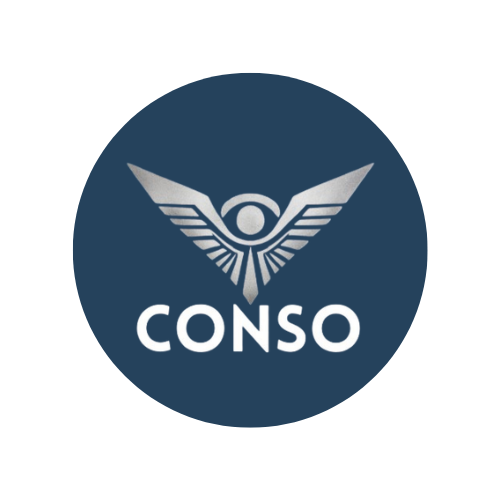
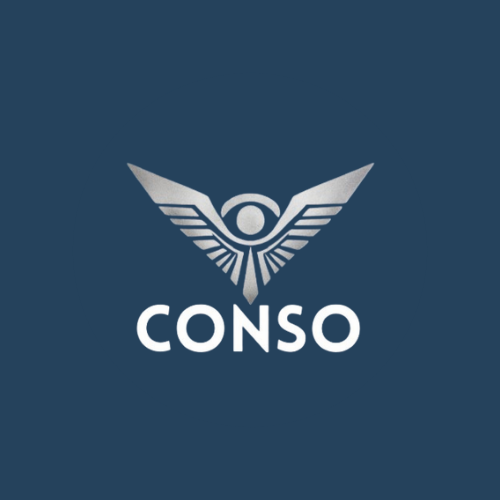
fixed image and remove autoscroll

diff --git a/src/components/Work.jsx b/src/components/Work.jsx
@@ -13,8 +13,6 @@ const reels = [{
 {
     src: 'https://www.youtube.com/embed/8jzZI49KfKo',
 },{
-    src: 'https://www.youtube.com/embed/vPvv9GMEpJI',
-},{
     src: 'https://www.youtube.com/embed/Z6eYzn5ADg4',
 },{
     src: 'https://www.youtube.com/embed/XaL4uijU3q4',
@@ -39,16 +37,6 @@ const Work = () => {
     window.addEventListener('resize', handleResize);
     return () => window.removeEventListener('resize', handleResize);
   }, []);
-
-  useEffect(() => {
-    const timer = setInterval(() => {
-      setCurrentIndex((prevIndex) => {
-        const nextIndex = prevIndex + 1;
-        return nextIndex >= Math.ceil(reels.length / cardsPerView) ? 0 : nextIndex;
-      });
-    }, 10000);
-    return () => clearInterval(timer);
-  }, [cardsPerView]);
 
   const nextSlide = () => {
     setCurrentIndex((prevIndex) => {

diff --git a/src/components/MarqueeSection.jsx b/src/components/MarqueeSection.jsx
@@ -29,7 +29,7 @@ const MarqueeSection = () => {
         </div>
 
       </AnimatedTitle>
-      <div className='w-[90%] sm:w-[80%] md:w-[80%] lg:w-[80%] xl:w-[80%] mx-auto mb-4 p-4 rounded-xl bg-white opacity-60 backdrop-blur-2xl shadow-lg'>
+      <div className='w-[90%] sm:w-[80%] md:w-[80%] lg:w-[80%] xl:w-[80%] mx-auto mb-4 p-4 rounded-xl bg-white opacity-80 backdrop-blur-2xl shadow-lg'>
       <Marquee gradient={false} speed={40} pauseOnHover>
         {[...countries, ...countries].map((country, index) => (
           <div

diff --git a/src/components/ClientCards.jsx b/src/components/ClientCards.jsx
@@ -35,8 +35,8 @@ const clients = [
     image: quickfintax,
   },
   {
-    name: 'CA Pratik Patel',
-    title: 'Co-founder - Quick Fintax',
+    name: 'Dr Shalini Deshmukh',
+    title: 'Managing Director Karma Astrology',
     image: karma
   }
 ];
